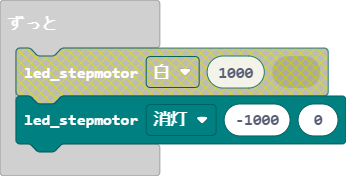
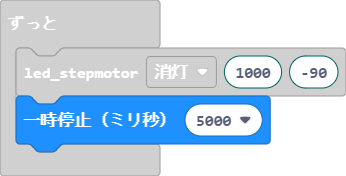
ステッピングモーターの関数で角度指定が出来る

diff --git a/main.ts b/main.ts
@@ -32,5 +32,6 @@ let num = [
 0
 ]
 basic.forever(function () {
-    custom.led_stepmotor(color_type.black, -1000, 0)
+    custom.led_stepmotor(color_type.black, 1000, -90)
+    basic.pause(5000)
 })
